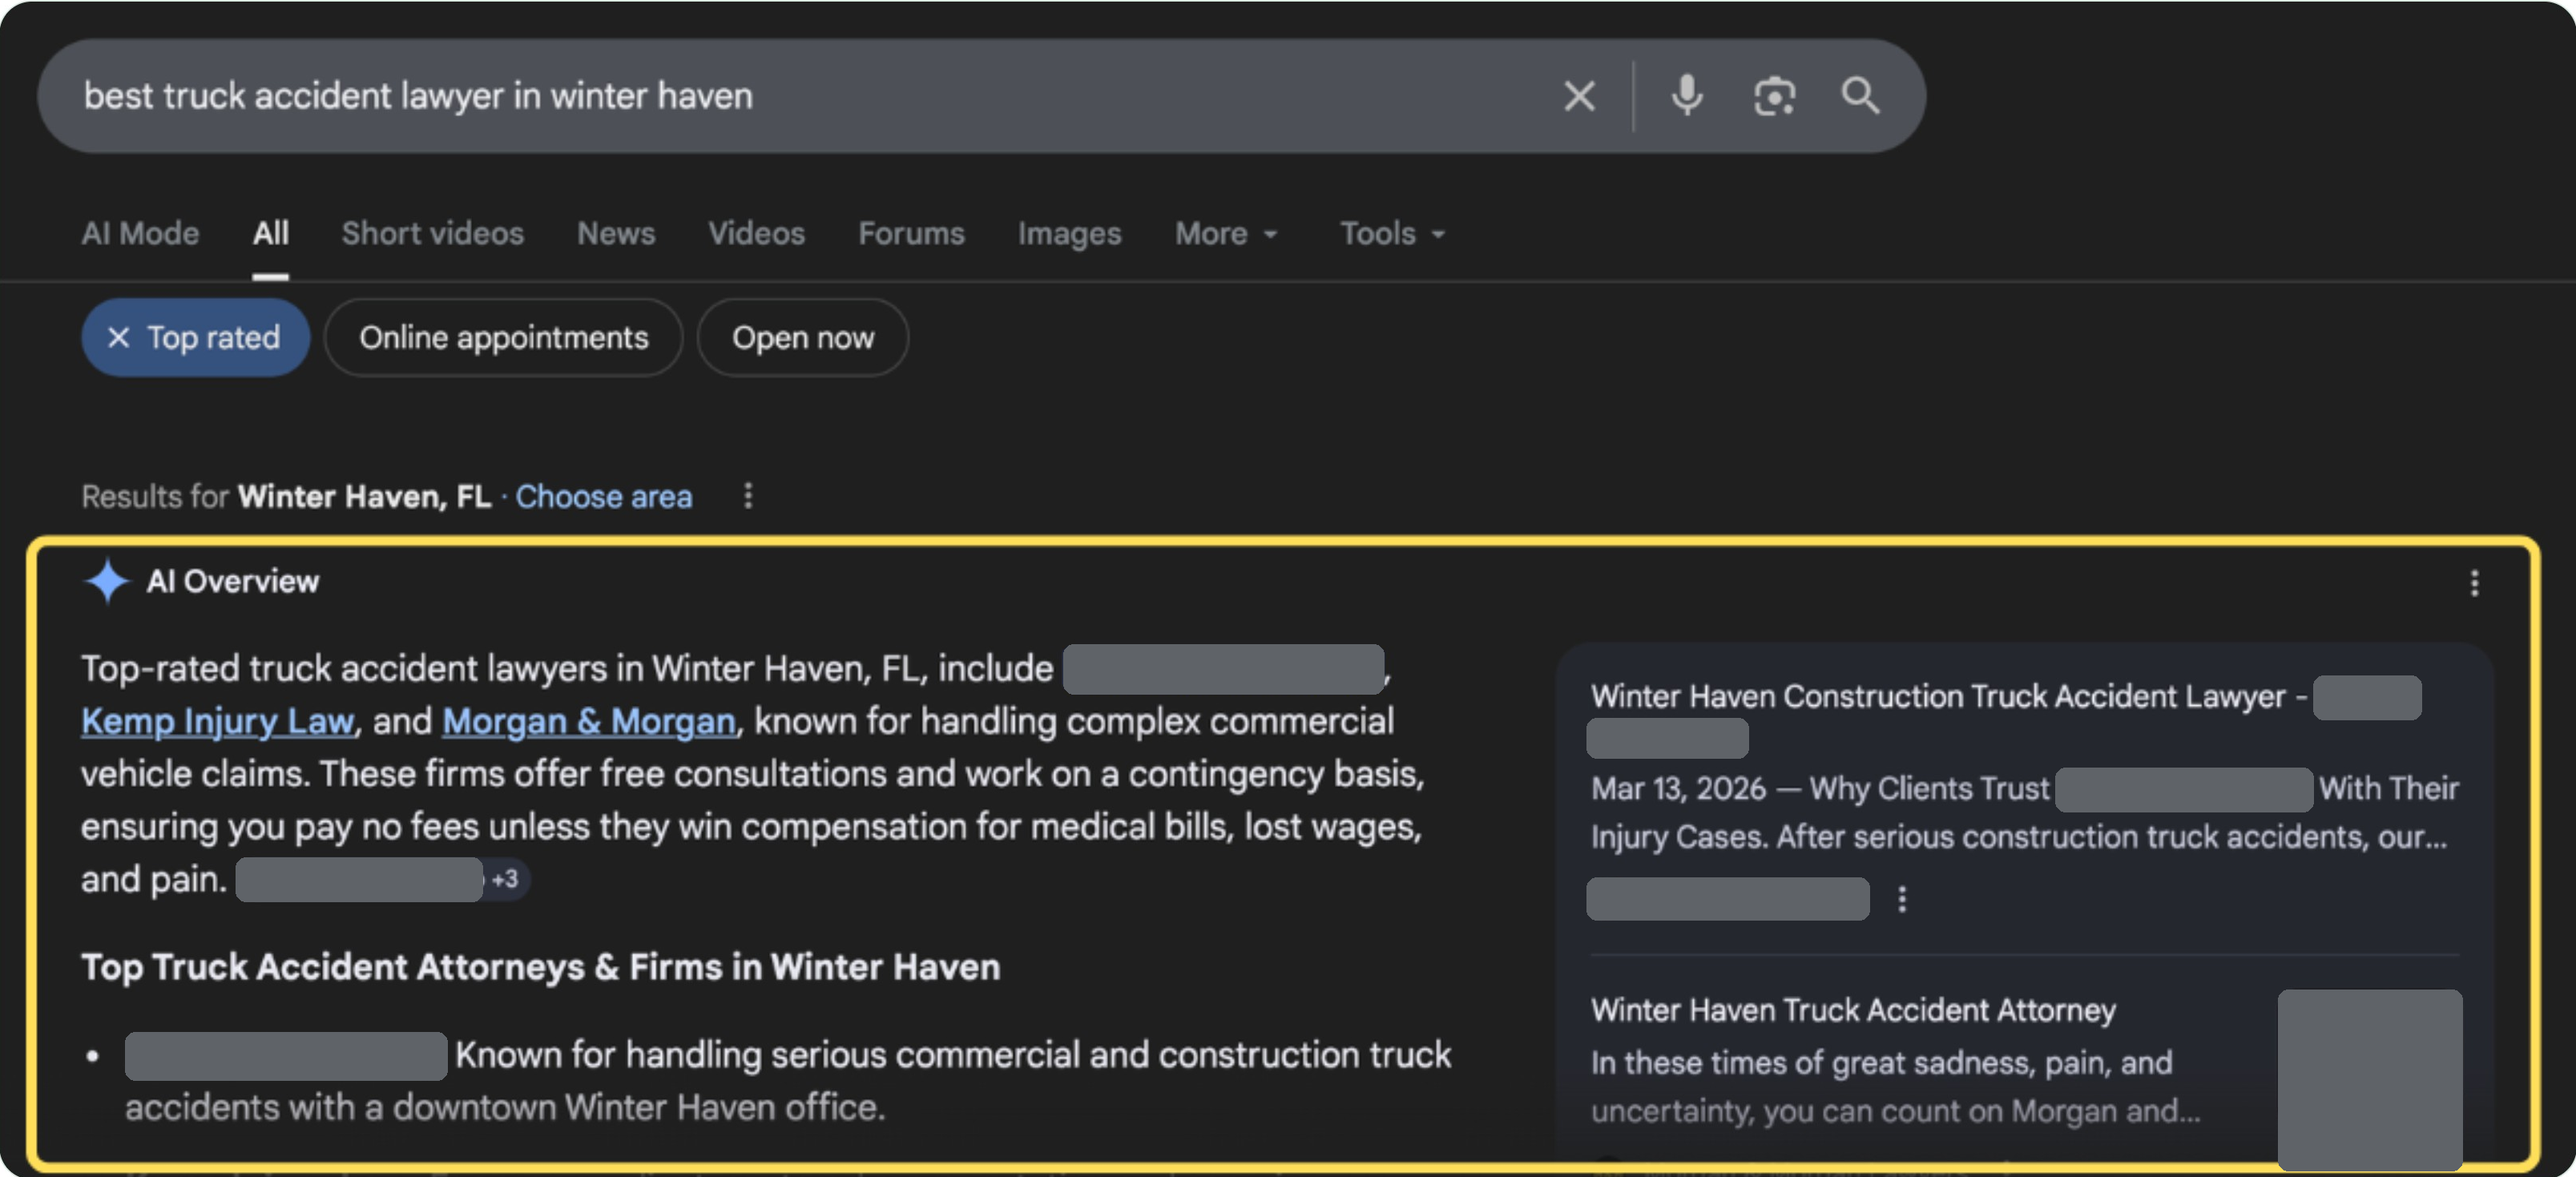
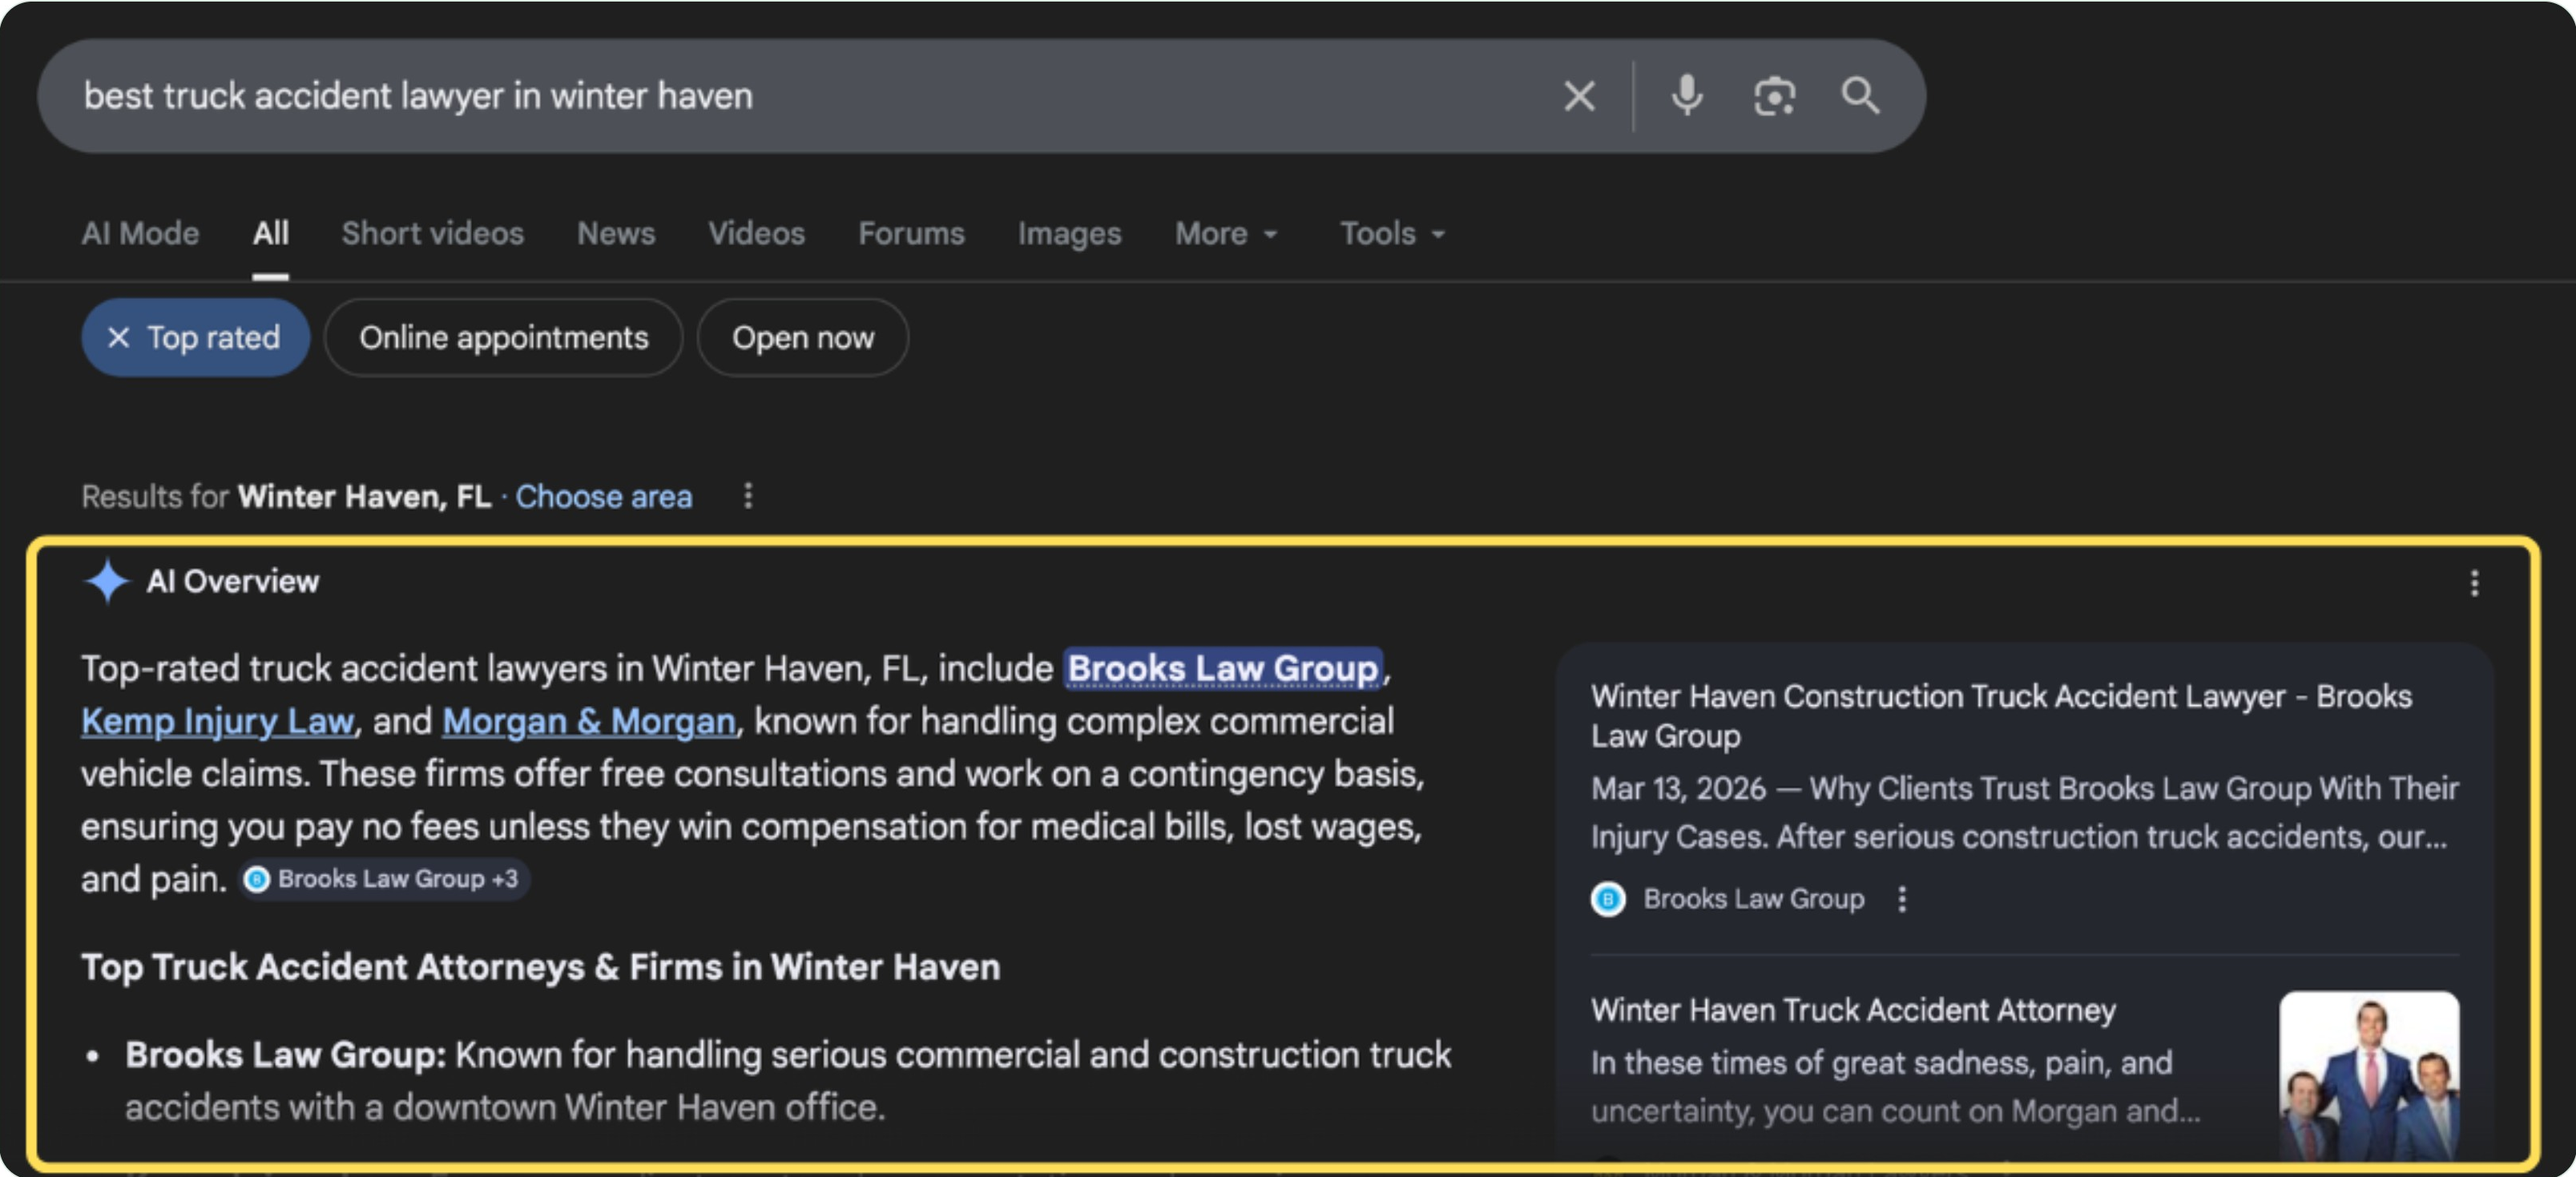
Law firm case study: show unredacted screenshots, keep brand out of copy
Claude-Session: https://claude.ai/code/session_01M4MX5nKsAVaMXm79wzW3xR

diff --git a/src/content/case-studies/law-firm-ai-overview.md b/src/content/case-studies/law-firm-ai-overview.md
@@ -8,7 +8,7 @@ summary: "A regional personal injury firm in Florida was up against national bra
 metric: "1st"
 cardTitle: "law firm named in Google's AI Overview for its core case type"
 cardMeta: "Florida, United States · Sub-service pages, YMYL content, internal linking"
-cardImageLabel: "Google AI Overview naming the law firm first, with the firm's name hidden"
+cardImageLabel: "Google AI Overview naming the law firm first"
 cardImage: ./images/law-firm-ai-overview/google-ai-overview-law-firm-named-first.png
 tags: ["Legal", "AI Search", "Content Strategy"]
 client: "A personal injury law firm"
@@ -32,11 +32,11 @@ steps:
 resultsText: "Within one month of the sub-pages going live, the main service pages climbed in rankings, the service pages started showing in AI Overviews and the firm's location broke into the map pack. For a tracked search for the best truck accident lawyer in its city, Google's AI Overview named the firm first and described it as known for serious commercial and construction truck accidents. The lead source card points to the firm's own construction truck accident page, which this work created."
 gallery:
   - image: ./images/law-firm-ai-overview/google-ai-overview-law-firm-named-first.png
-    caption: "Google's AI Overview names the firm first, ahead of a national brand. The source card on the right is the firm's own sub-service page. Firm name hidden."
+    caption: "Google's AI Overview names the firm first, ahead of a national brand. The source card on the right is the firm's own sub-service page."
   - image: ./images/law-firm-ai-overview/google-map-pack-law-firm-top-3.png
-    caption: "Map pack: the firm holds a top-3 spot next to a national brand with 1.3K reviews. Firm name and contact details hidden."
+    caption: "Map pack: the firm holds a top-3 spot next to a national brand with 1.3K reviews."
   - image: ./images/law-firm-ai-overview/google-organic-law-firm-page-one.png
-    caption: "Organic results: the city truck accident page ranks on page one with a matching title and a clean city URL. Firm name and domain hidden."
+    caption: "Organic results: the city truck accident page ranks on page one with a matching title and a clean city URL."
 quote: "Jean got our pages showing up in Google's AI Overviews. For a personal injury firm, being in that answer when someone's researching their case makes a real difference."
 quoteName: "Raven"
 quoteRole: "Senior Marketing Lead, Personal Injury Law Firm"
@@ -48,6 +48,6 @@ takeaways:
 
 ## How the results were checked
 
-The screenshots come from a live Google search for the firm's core case type in its city. The firm's name, logo, address, phone number and domain are hidden to keep the client anonymous. Competitor names are left in, since they show who the firm outranked.
+The screenshots come from a live Google search for the firm's core case type in its city, so you can see exactly where the firm appears and which national brands it sits next to.
 
 Want your firm cited in AI answers? Start with [how to show up in Google AI Overviews](/blog/how-to-show-up-in-google-ai-overviews/) and [how to build topical authority](/blog/how-to-build-topical-authority/).
